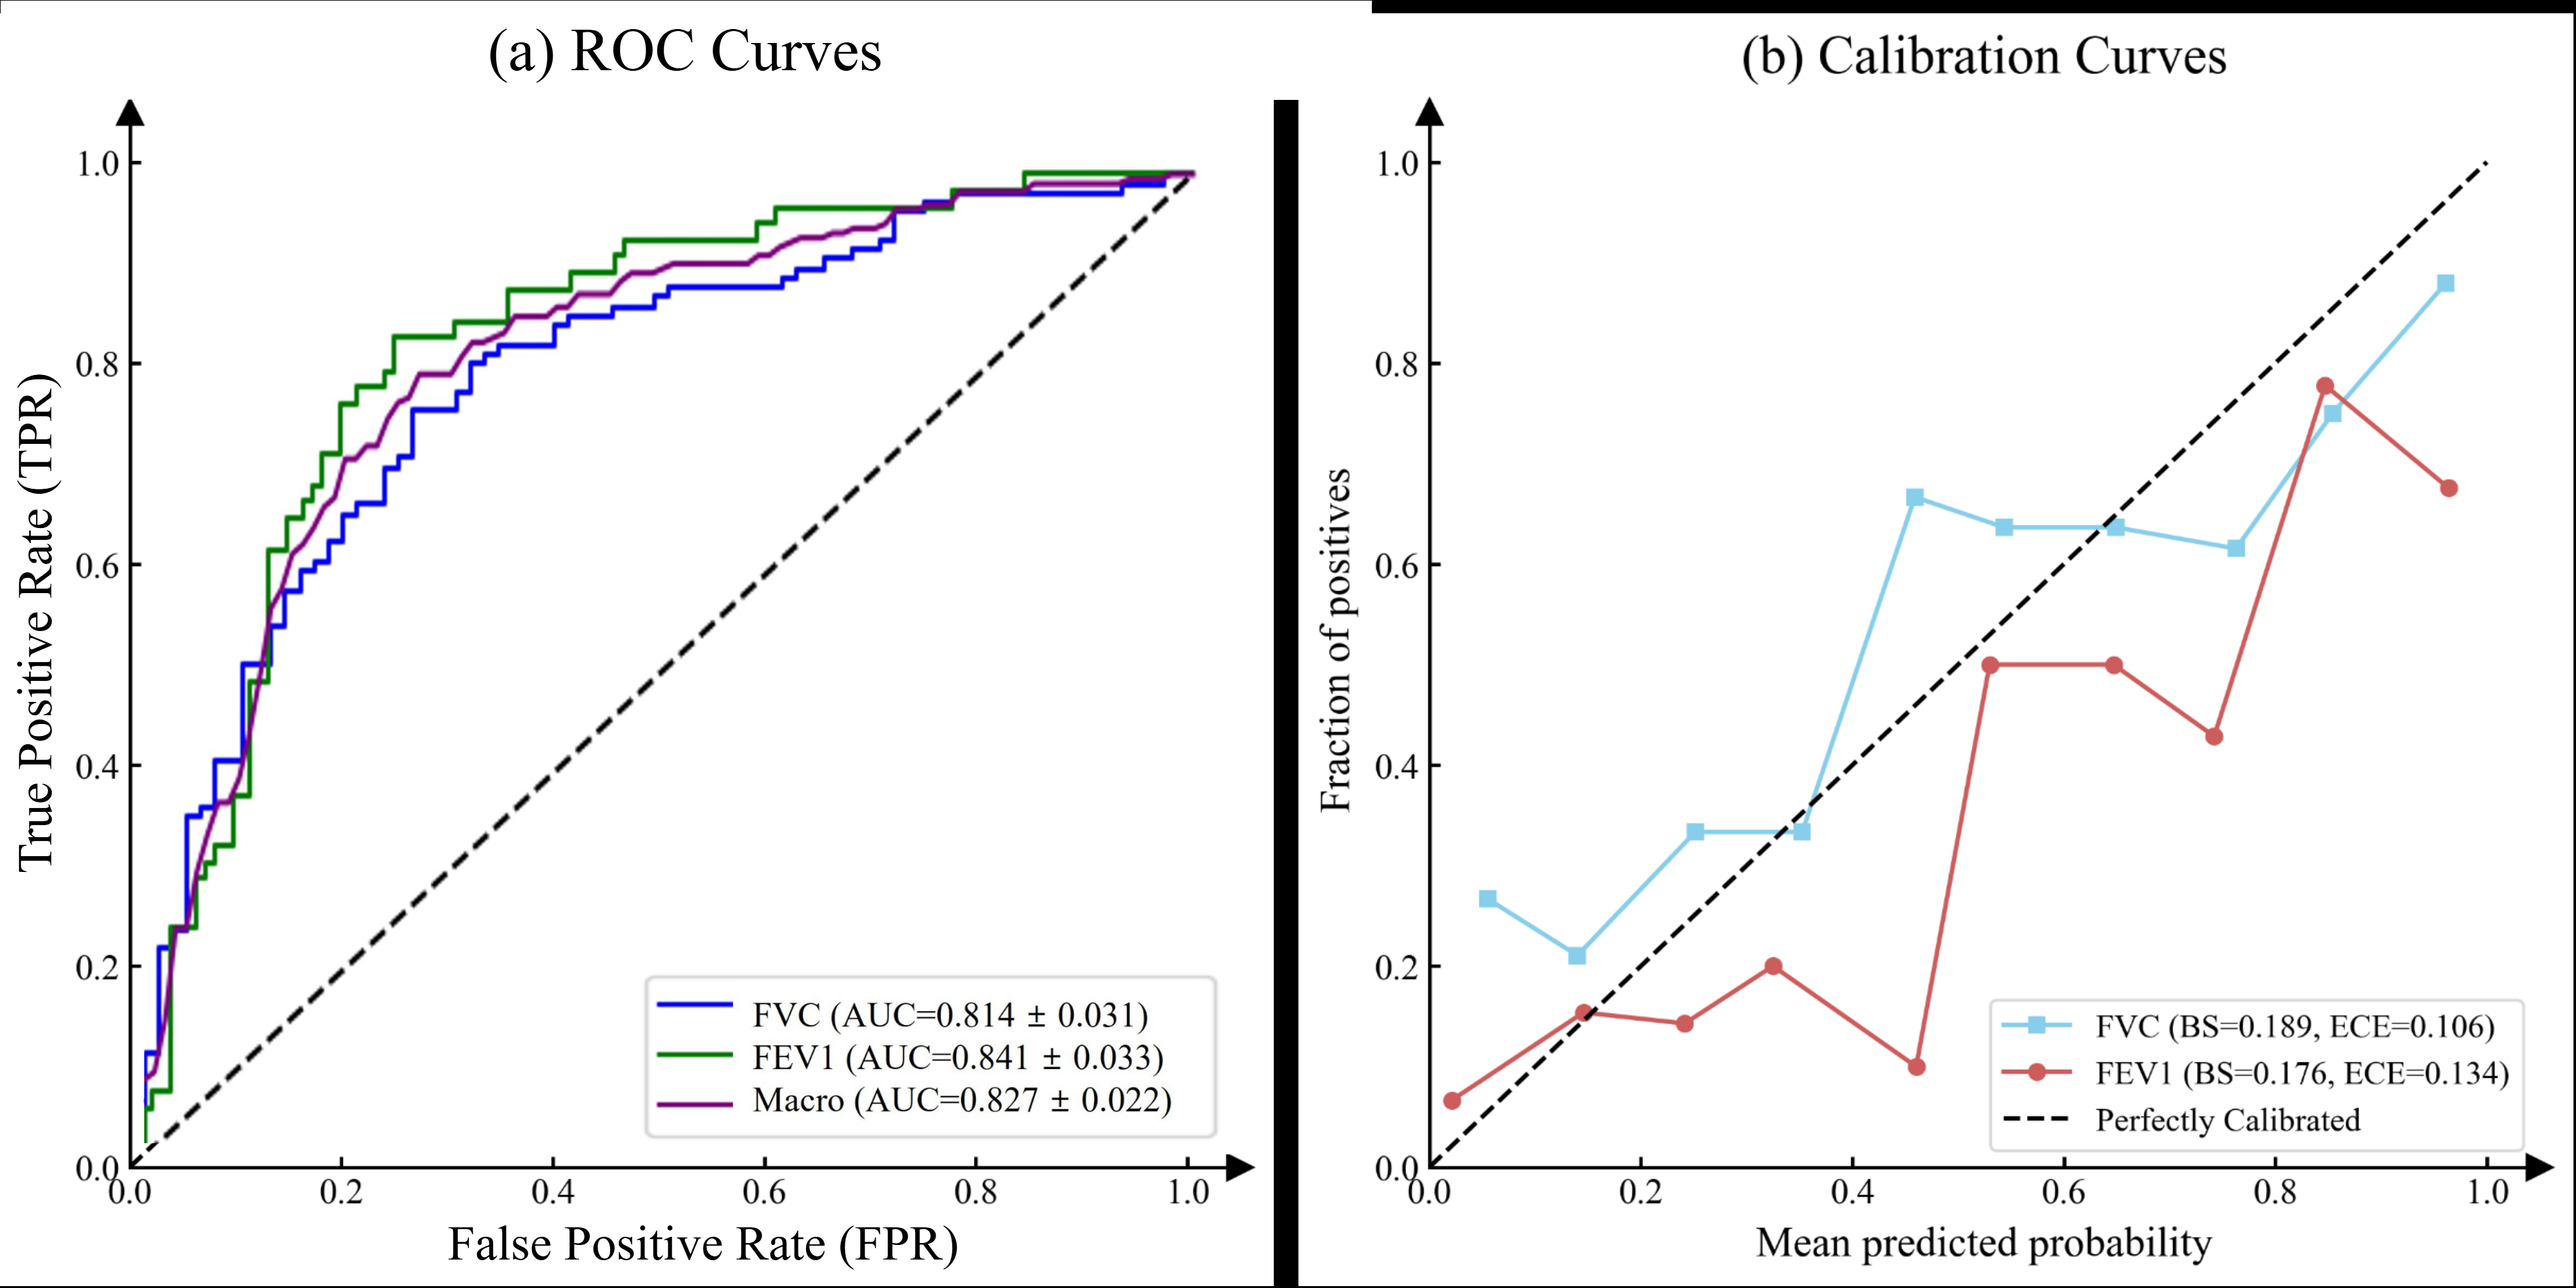
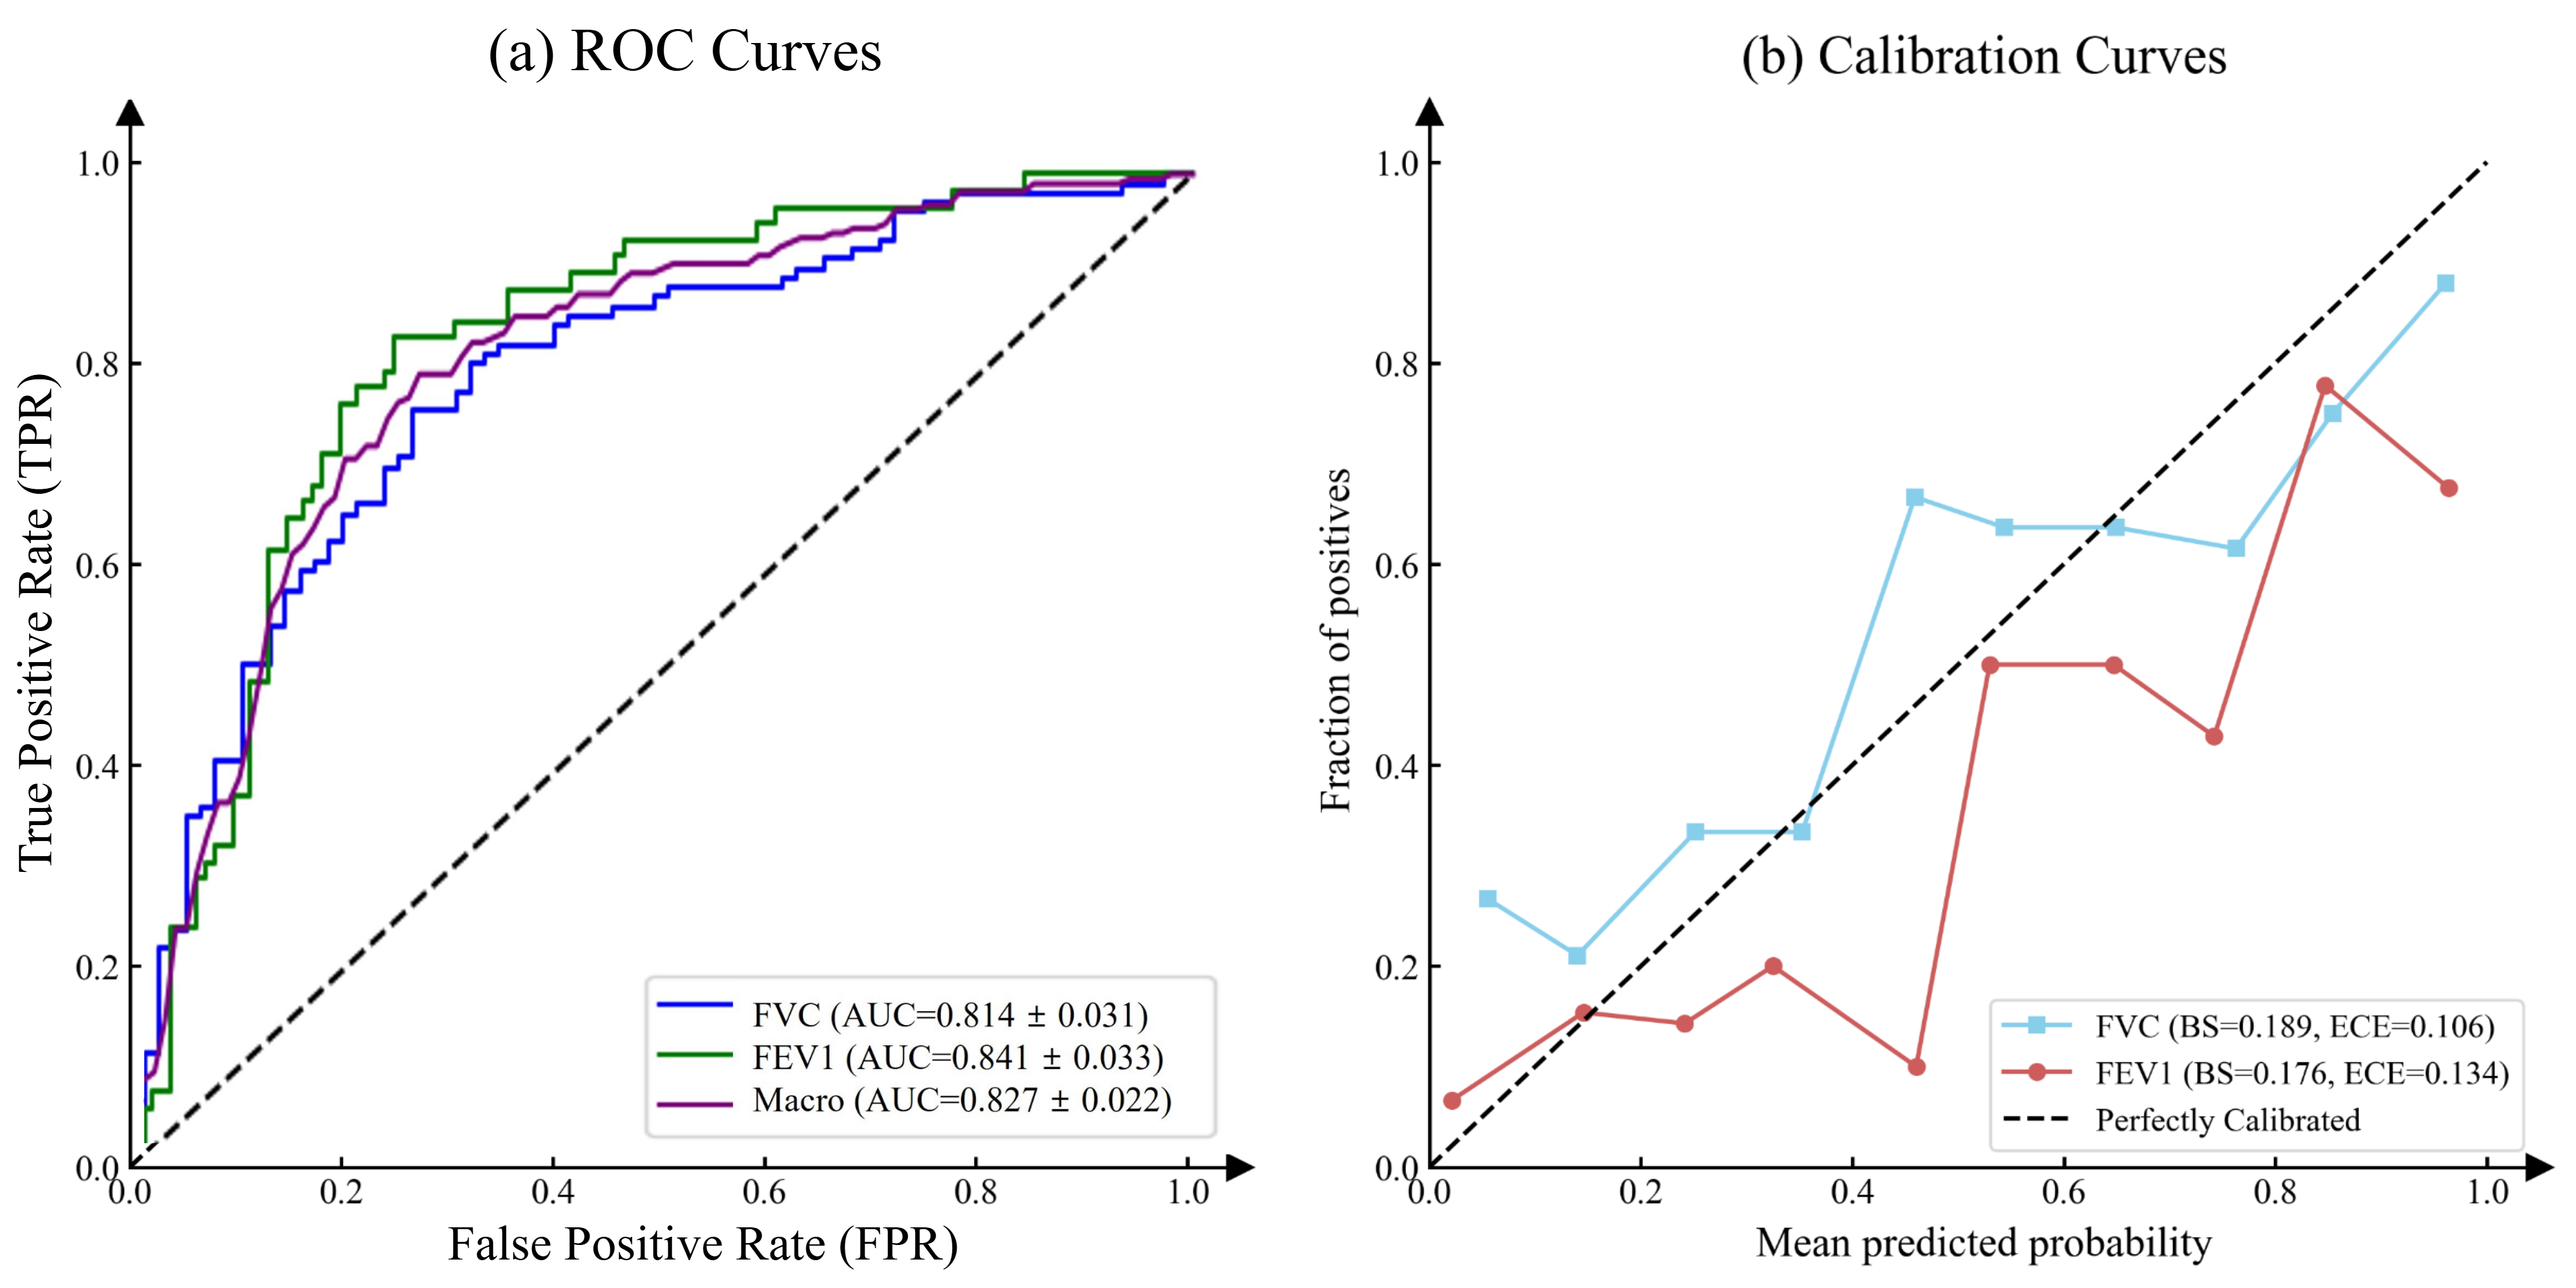
Whiten figure 2 background; trim README; remove LICENSE
Replace the black compositing artifacts around figure 2 (panel divider, top
band, border frame) with white so the figure reads correctly in both GitHub
themes. Drop the Usage, Limitations and License sections, and note the shared
first authorship and co-corresponding authors under the citation.

Changed region(s): [[0.0, 0.0, 1.0, 1.0]]

diff --git a/README.md b/README.md
@@ -7,6 +7,8 @@ This repository contains the research code for:
 > **Spinal morphology–based multimodal AI for predicting pulmonary dysfunction in adolescent idiopathic scoliosis**
 > Kim Y†, Park S-J†, Park J-S, Seo Y-G, Choi S, Chung MJ, Yoo H\*, Kang D-H\*
 > *European Spine Journal* (2026). [10.1007/s00586-026-09893-2](https://doi.org/10.1007/s00586-026-09893-2)
+>
+> † Contributed equally as first authors.  \* Co-corresponding authors.
 
 ---
 
@@ -135,28 +137,6 @@ python -m venv .venv && source .venv/bin/activate
 pip install -r requirements.txt
 ```
 
-## Usage
-
-Paths are set in the `if __name__ == '__main__'` block at the bottom of each script; there is no command-line interface. Place the data as described in [`docs/data.md`](docs/data.md) and set the histogram-matching reference before running.
-
-```bash
-# Published model — EfficientNet-B0 + MLP, FiLM fusion, 5-fold CV
-python src/multimodal/train.py
-
-# Metrics from saved checkpoints
-python src/multimodal/evaluate.py
-
-# Grad-CAM overlays
-python src/multimodal/gradcam.py
-
-# Image-only ablation (set USE_IMAGE_ONLY = True)
-python src/multimodal/train_single_modal.py
-```
-
-Or run the whole sequence with [`scripts/run_pipeline.sh`](scripts/run_pipeline.sh). The ablation grid is widened by editing the `backbones`, `fusions` and `tabs` lists near the bottom of `train.py` — see [`docs/reproduction.md`](docs/reproduction.md).
-
-The configuration matching the published model is in [`configs/training_config.yaml`](configs/training_config.yaml).
-
 ## Model selection and hyperparameters
 
 AdamW at lr 1e-4, weight decay 1e-4, cosine annealing with warm restarts (T₀ = 10, T_mult = 2), batch size 16, up to 100 epochs with early stopping on validation loss (patience 10). The loss is `BCEWithLogitsLoss` with a per-task `pos_weight` computed from the training split — class imbalance is handled in the loss rather than by resampling, since resampling did not improve on the unresampled baseline. Augmentation combines affine jitter, random resized crop, horizontal flip and photometric jitter with batch-level MixUp/CutMix applied to image and tabular features together.
@@ -165,16 +145,8 @@ Architecture and hyperparameters were chosen **empirically** during development;
 
 **Cross-validation, not a held-out test set.** All reported metrics are validation metrics aggregated across the five folds, and checkpoint selection happens on the fold being scored. This is optimistic relative to a held-out test set. Fold assignment is fixed (`random_state=42`), but training is not seeded, so per-fold numbers vary between runs by roughly the standard deviations in the table above. The `*_tuned` fields in the results JSON use a Youden's-J threshold fitted on the same fold and are correspondingly biased — they are not the headline numbers.
 
-## Limitations
-
-Single-center, retrospective, and modest in size. External validation was not feasible: no external cohort with paired full-spine radiographs and complete PFT data was available. The 80%-predicted threshold, while clinically intuitive for surgical risk stratification, dichotomizes a continuous measurement and loses information in the 75–85% borderline range, where 28% of this cohort sits. And the model remains a black box — Grad-CAM indicates where it looks, not why.
-
 ## Data and model availability
 
 The datasets are not readily available because of strict privacy and ethical restrictions regarding patient clinical and imaging data collected at Samsung Medical Center. Requests to access the datasets should be directed to the corresponding author.
 
 Trained model weights are likewise not distributed here: checkpoints were produced and stored inside the Samsung Medical Center internal network and cannot be released under the institutional security policy. All performance figures in this README are the values reported in the paper; re-running this code on other data will not reproduce them exactly.
-
-## License
-
-Source code is released under the [MIT License](LICENSE). The license covers the code only — it grants no rights to the clinical or imaging data, nor to any trained model weights.
